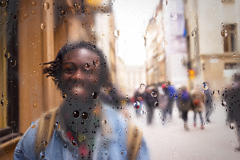
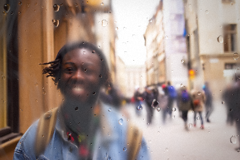
Beschlagene Scheibe: realistischere Tropfen; E2E-Start robuster
Tropfen: unregelmäßiger Eiumriss, drei Größen in Nestern, umgekehrte und zum
Rand gestauchte Abbildung aus halb scharfem, halb weichem Bild, Farbsaum,
Lichtbündelung, weicher Rand und Glanz. waitForApp lädt einmal neu, wenn die
Statusleiste nach einem Plugin-Test fehlt (Stolperstein S34).

diff --git a/tests/e2e/helpers.ts b/tests/e2e/helpers.ts
@@ -12,8 +12,15 @@ export async function enableTestEffects(page: Page): Promise<void> {
 
 export async function waitForApp(page: Page): Promise<void> {
   await page.goto('/');
-  // großzügig: im langen Gesamtlauf braucht der Dev-Server nach einem Neuladen gelegentlich länger
-  await expect(page.locator('.statusbar-gpu')).toContainText('WebGPU ·', { timeout: 15_000 });
+  // Nach den Plugin-Tests (Ordner anlegen/löschen) optimiert Vite neu und die erste Seite bleibt gelegentlich leer:
+  // dann einmal neu laden, statt den Test scheitern zu lassen (Stolperstein S34).
+  const ready = page.locator('.statusbar-gpu');
+  try {
+    await expect(ready).toContainText('WebGPU ·', { timeout: 15_000 });
+  } catch {
+    await page.reload();
+    await expect(ready).toContainText('WebGPU ·', { timeout: 30_000 });
+  }
   // Plugins kompiliert?
   await expect
     .poll(

diff --git a/PROGRESS.md b/PROGRESS.md
@@ -193,10 +193,11 @@ Was die App kann:
 | S28 | E2E-Test „hing“ 15 min trotz 240-s-Timeout                                                                                                                                                                       | Schleife mit `expect()` je Pixel (2 Mio. Aufrufe) blockiert den Test-Worker; Timeout greift nicht                                                                                                                                             | Keine `expect`-Schleifen über Pixel; Kennzahlen berechnen, einmal prüfen                                                                                                                                                                              | `tests/e2e/analysisMaps.spec.ts`                                                     |
 | S29 | Kanten-Karte fast nur „hart“ bzw. gesprenkelt                                                                                                                                                                    | Gradientmaximum über 5 × 5 griff Nachbarkanten und Textur; feste px-Schwelle hängt von der Bildgröße ab                                                                                                                                       | Querprofil an der Kante, Schwelle in % der langen Kante, Median entlang der Grenze                                                                                                                                                                    | `src/malplan/edges.ts`                                                               |
 | S30 | Gray-Scott-Muster starb sofort ab                                                                                                                                                                                | fp16-Arbeitsformat: Schritte von ~10⁻⁴ gehen nahe U = 1 verloren; Einzelzell-Keime zu klein                                                                                                                                                   | Zustand als 1 − U speichern (genau nahe 0), Keime als Flecken aus weichem Rauschen                                                                                                                                                                    | `effects/reaction-diffusion/effect.wgsl`                                             |
-| S34 | Gesamtlauf E2E: `presets.spec.ts` findet die Statusleiste nicht (Zeitüberschreitung beim Start)                                                                                                                  | Kurz zuvor legt der Plugin-Test Ordner unter `effects/` an und löscht sie wieder; Vite lädt die Seite dann neu und braucht im langen Lauf gelegentlich länger                                                                                 | Test einzeln wiederholt: grün. Abhilfe später: E2E gegen `vite preview` (P3)                                                                                                                                                                          | `tests/e2e/presets.spec.ts`                                                          |
+| S34 | Gesamtlauf E2E: `presets.spec.ts` findet die Statusleiste nicht (Zeitüberschreitung beim Start)                                                                                                                  | Kurz zuvor legt der Plugin-Test Ordner unter `effects/` an und löscht sie wieder; Vite lädt die Seite dann neu und braucht im langen Lauf gelegentlich länger                                                                                 | Test einzeln wiederholt: grün. Behoben: `waitForApp` lädt einmal neu, wenn die Statusleiste nach 15 s fehlt (`tests/e2e/helpers.ts`); E2E gegen `vite preview` bleibt P3                                                                              | `tests/e2e/presets.spec.ts`                                                          |
 | S35 | Download „U²-Net-p (Salienz)“ schlägt im Browser immer fehl                                                                                                                                                      | Die GitHub-Release-Adresse leitet auf `release-assets.githubusercontent.com` weiter, das keinen CORS-Kopf sendet; `fetch` im Browser wird blockiert (curl und Test-Cache funktionieren)                                                       | Gleiche Datei (SHA-256 identisch) von `huggingface.co/BritishWerewolf/U-2-Netp` (Apache-2.0, CORS `*`) mit festem Commit; in Registry und MODELS.md eingetragen. Vor dem Eintragen neuer Modelle: Download aus dem Browser prüfen, nicht nur per curl | `models/registry.json`                                                               |
 | S37 | `dream-blur`: dunkler Saum zwischen scharf gehaltenem Motiv und Unschärfe (dunkles Bild auf Schwarz, „Motiv schärfer halten“ hoch)                                                                               | Der Hintergrund wurde samt Motiv weichgezeichnet: dessen Licht blutete als Glühen nach außen, innen blieb der scharfe schwarze Rand → Lücke zwischen beiden                                                                                   | Hintergrund per normierter Faltung ohne das Motiv weichzeichnen (`prep_bg`: Licht × (1 − Gewicht), Gewicht in Alpha; `mix_focus` teilt durch das Restgewicht). Regressionsfall `dream-blur-dark-subject` mit `golden/dark-subject.png`                | `effects/dream-blur/`                                                                |
 | S36 | `dream-blur`: schwarze Rechtecke im Ergebnis                                                                                                                                                                     | Das weichgezeichnete Leuchtbild hat Alpha ≈ 0 (Highlight-Maske × vormultipliziert); `unpremultiply` teilte durch winzige Werte → Überlauf/NaN im 16-Bit-Format                                                                                | Leuchtbild als reines Licht mit Alpha 1 speichern und direkt lesen                                                                                                                                                                                    | `effects/dream-blur/effect.wgsl`                                                     |
+| S38 | `wet-glass`: Tropfen wirkten unrealistisch (gleichmäßig verteilte, perfekte Kreise mit hartem schwarzem Rand und weißem Punkt)                                                                                   | Zu einfache Linse: ein Kreisradius, feste Vergrößerung, harte Ränder, eine Größe, gleichmäßige Dichte                                                                                                                                         | Unregelmäßiger Eiumriss, drei Größen (viele kleine, wenige große) in Nestern, am Rand stark gestauchte umgekehrte Abbildung aus halb scharfem, halb weichem Bild, Farbsaum, Lichtbündelung unten, weicher Rand, weicher Glanz; Spuren weicher         | `effects/wet-glass/effect.wgsl`                                                      |
 | S32 | Aquarell: fast schwarze Flecken                                                                                                                                                                                  | Lasuren mit Teilanteilen wurden nach Kubelka-Munk übereinander geschichtet; jede einzeln traf ihren Ton, gestapelt wurde es subtraktiv dunkel                                                                                                 | Je Lasur eine Schicht über dem Papier, Spektren der Zelle nach Anteil mischen; Zieltöne leicht aufgehellt                                                                                                                                             | `effects/watercolor-sim/effect.worker.ts`                                            |
 | S33 | Erosion in 24 MP: waagrechte Rinnen im glatten Himmel                                                                                                                                                            | 8-Bit-Stufen eines glatten Verlaufs sind Terrassen; Wasser sammelt sich an jeder Stufe                                                                                                                                                        | Feines Rauschen (±0,15 %) auf die Anfangshöhe                                                                                                                                                                                                         | `effects/erosion/effect.wgsl`                                                        |
 | S31 | Erosion: Streifen, verwischte und übersättigte Farben                                                                                                                                                            | Zellrauschen im Regen, zu starker Abtrag; Farbtransport über Hunderte Schritte verwischt (numerische Diffusion); Farbdifferenz in grober Auflösung erzeugt Halos                                                                              | Gleichmäßiger Regen, Abtrag je Schritt begrenzt, Hangrutschung; Farbe einmalig stromaufwärts holen und nach Materialbewegung gewichten                                                                                                                | `effects/erosion/`                                                                   |

diff --git a/DECISIONS.md b/DECISIONS.md
@@ -86,8 +86,9 @@ Abweichungen von der Spec und Festlegungen bei unklaren Anforderungen. Neueste o
   Wischspuren, Tropfen, senkrechte Schlieren) – bestehenden Unschärfe-Effekt erweitern oder neuer Effekt?
 - **Entscheidung:** Eigener mehrstufiger GPU-Effekt (Kategorie „Licht & Atmosphäre“): Beschlagfeld aus verzerrtem
   fraktalem Rauschen mit senkrechter Struktur, freigewischten Stellen und Motivschonung; zwei Kern-Gauß-Stufen, je nach
-  Beschlag gemischt; senkrechte Schlieren; Schleier; Tropfen als Linsen mit umgekehrter, verkleinerter Abbildung des
-  scharfen Bildes (Glanzpunkt, Rand); Laufspuren großer Tropfen als klare Streifen. Alles aus Leinwandkoordinaten und
+  Beschlag gemischt; senkrechte Schlieren; Schleier; Tropfen als Linsen (unregelmäßiger Eiumriss, drei Größen in Nestern, umgekehrte und zum Rand
+  stark gestauchte Abbildung aus halb scharfem, halb weichem Bild, leichter Farbsaum, Lichtbündelung unten, weicher
+  dunkler Rand, schwacher Glanz); Laufspuren großer Tropfen als klare Streifen. Alles aus Leinwandkoordinaten und
   Seed (kachelgleich).
 - Größen in % der langen Bildkante; Reichweite = Unschärfe + Schlieren + Tropfenspur, meist ab halber Leinwand (Export am
   Stück).
